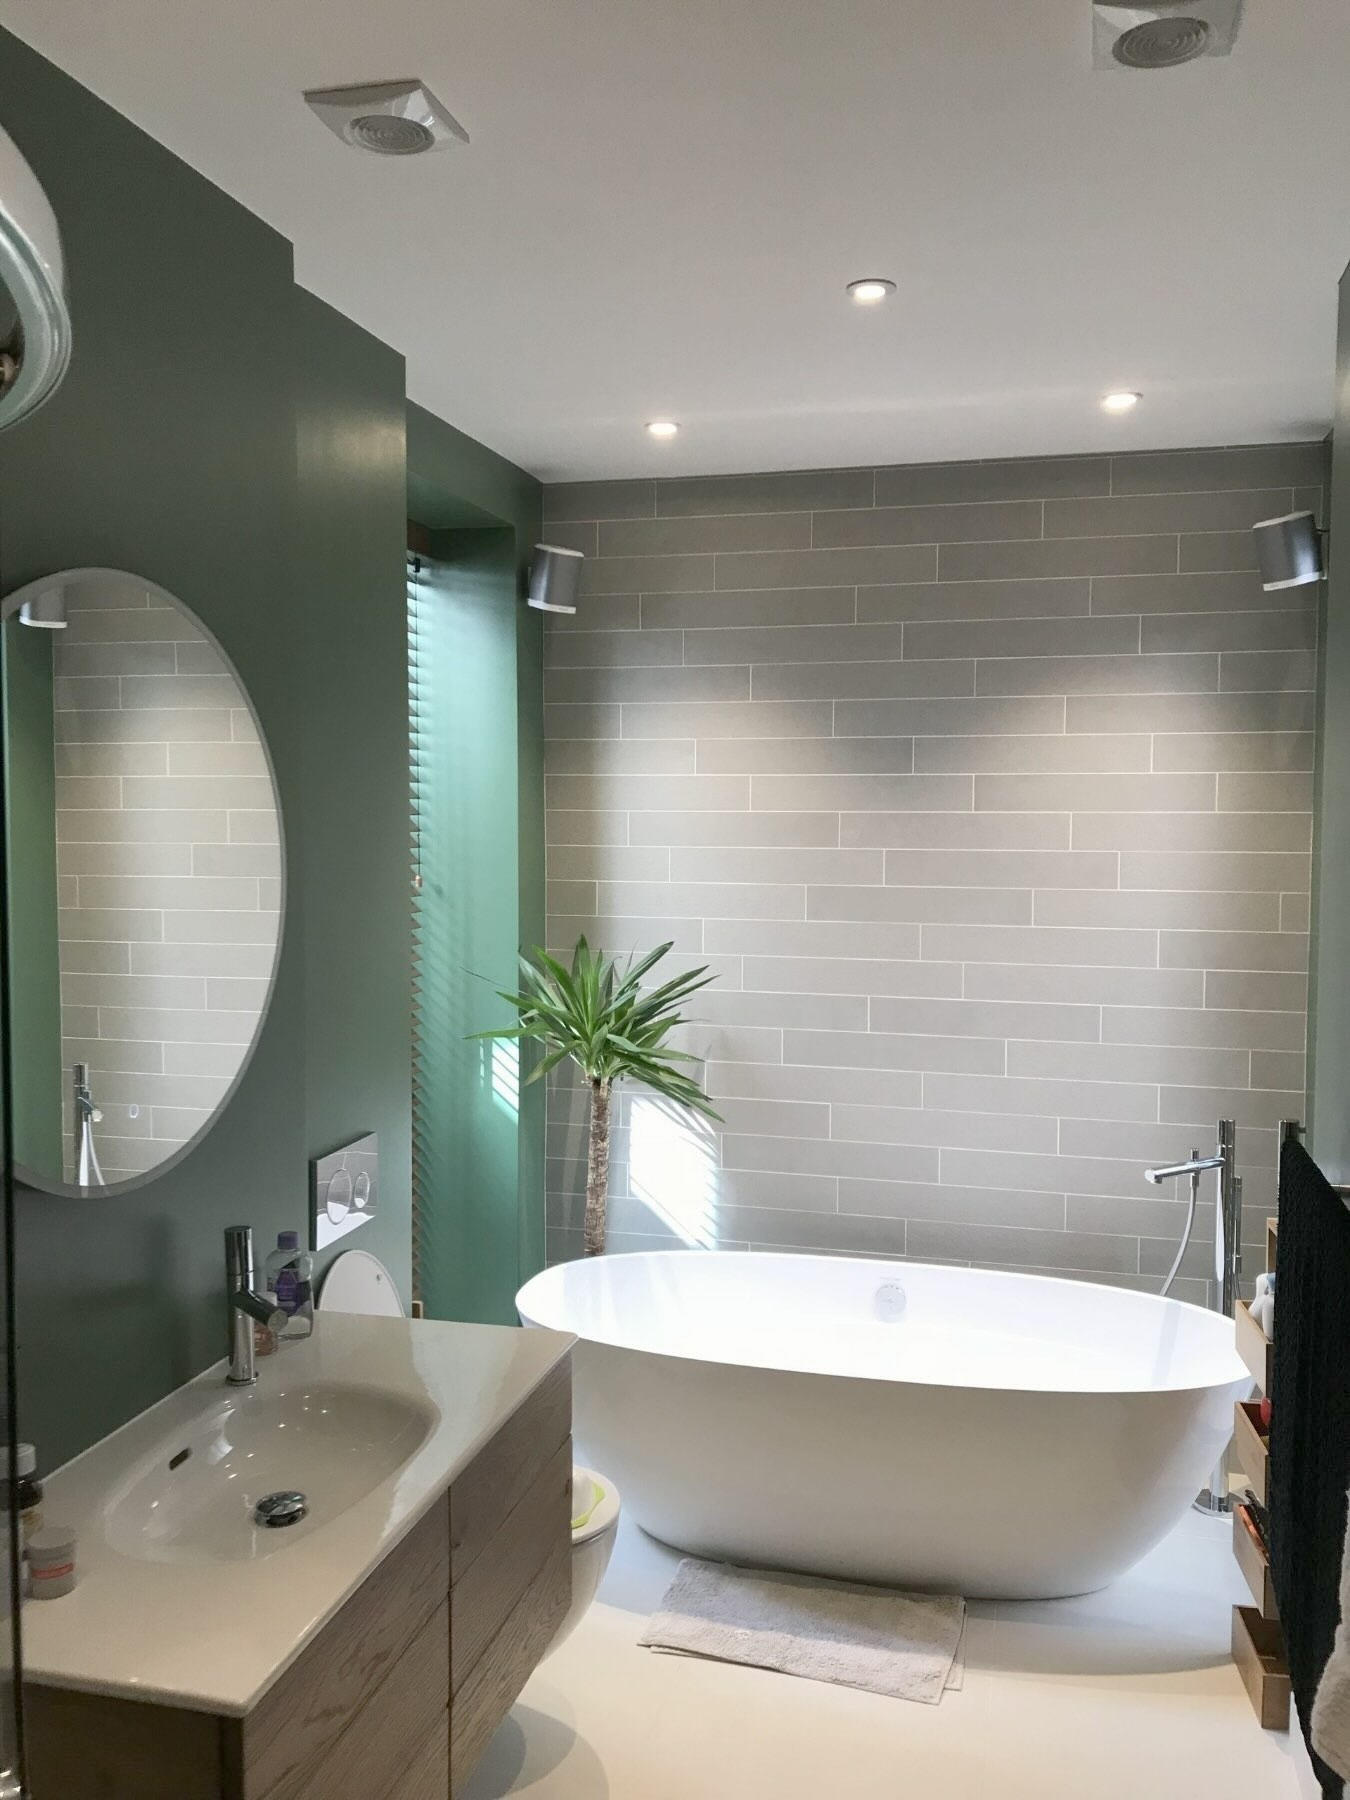
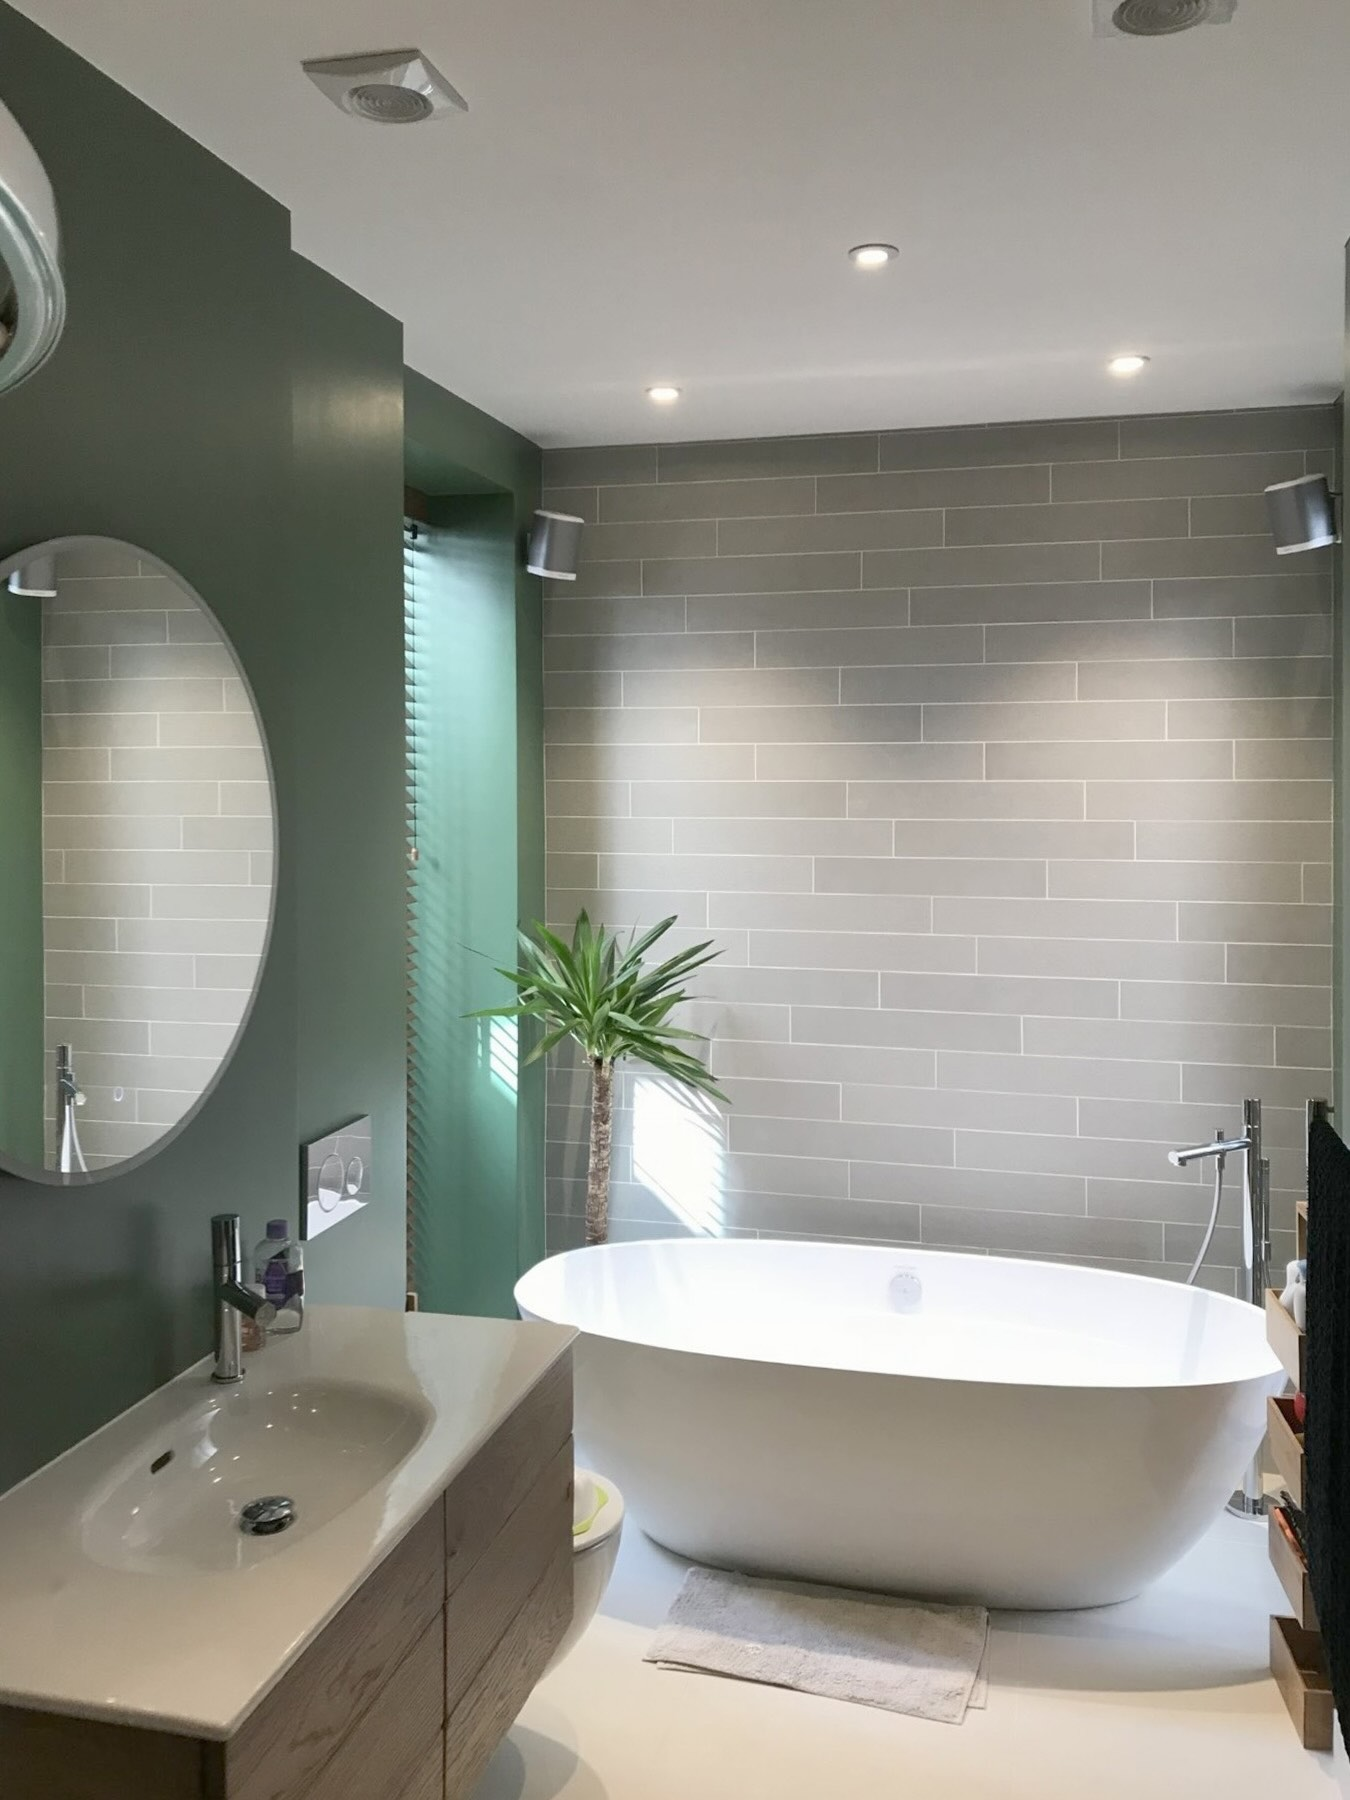
Rose & Quartz: more structured again (same order); Entertainment Heaven: retouched bathroom

diff --git a/src/content.ts b/src/content.ts
@@ -176,15 +176,13 @@ export const allProjects: Project[] = [
     location: 'Sarrià, Barcelona',
     image: '/images/gallery/sarria-04_sink-and-breakfast-nook.jpg', // home page card
     // Monica's edits from Drive (Website_2026/Anna Kitchen), white balance evened out.
-    // Details and the best photos bigger; the kitchen (leaning), dresser (soft) and the
-    // two window shots (burnt windows) smaller. Kitchen and hob (same angle) kept apart.
+    // Mostly pairs, with one big + small row. Kitchen and hob (same angle) kept apart.
     layout: [
       { kind: 'feature', photos: [2] },
       { kind: 'left', photos: [9, 5] },
-      { kind: 'right', photos: [1, 7] },
-      { kind: 'feature', photos: [6] },
-      { kind: 'left', photos: [8, 3] },
-      { kind: 'single', photos: [4] },
+      { kind: 'pair', photos: [1, 7] },
+      { kind: 'pair', photos: [6, 8] },
+      { kind: 'pair', photos: [3, 4] },
     ],
     images: [
       '01_kitchen', '02_hob-and-oven-column', '03_sink-and-window', '04_sink-and-breakfast-nook',

diff --git a/src/imageVersions.ts b/src/imageVersions.ts
@@ -43,7 +43,7 @@ export const imageVersions: Record<string, string> = {
 "/images/gallery/heaven-04_kitchen-island.jpg": "68e1e65f",
 "/images/gallery/heaven-05_kitchen-under-the-roof.jpg": "c0c3f8c2",
 "/images/gallery/heaven-06_dining-room.jpg": "b163bd64",
-"/images/gallery/heaven-07_bathroom.jpg": "c3459ee9",
+"/images/gallery/heaven-07_bathroom.jpg": "8f0c13e4",
 "/images/gallery/heaven-08_bath-and-niches.jpg": "f3ca0fe2",
 "/images/gallery/heaven-09_hot-tub-terrace.jpg": "c2277575",
 "/images/gallery/sant-antoni-01_kitchen-and-dining.jpg": "34982a00",
